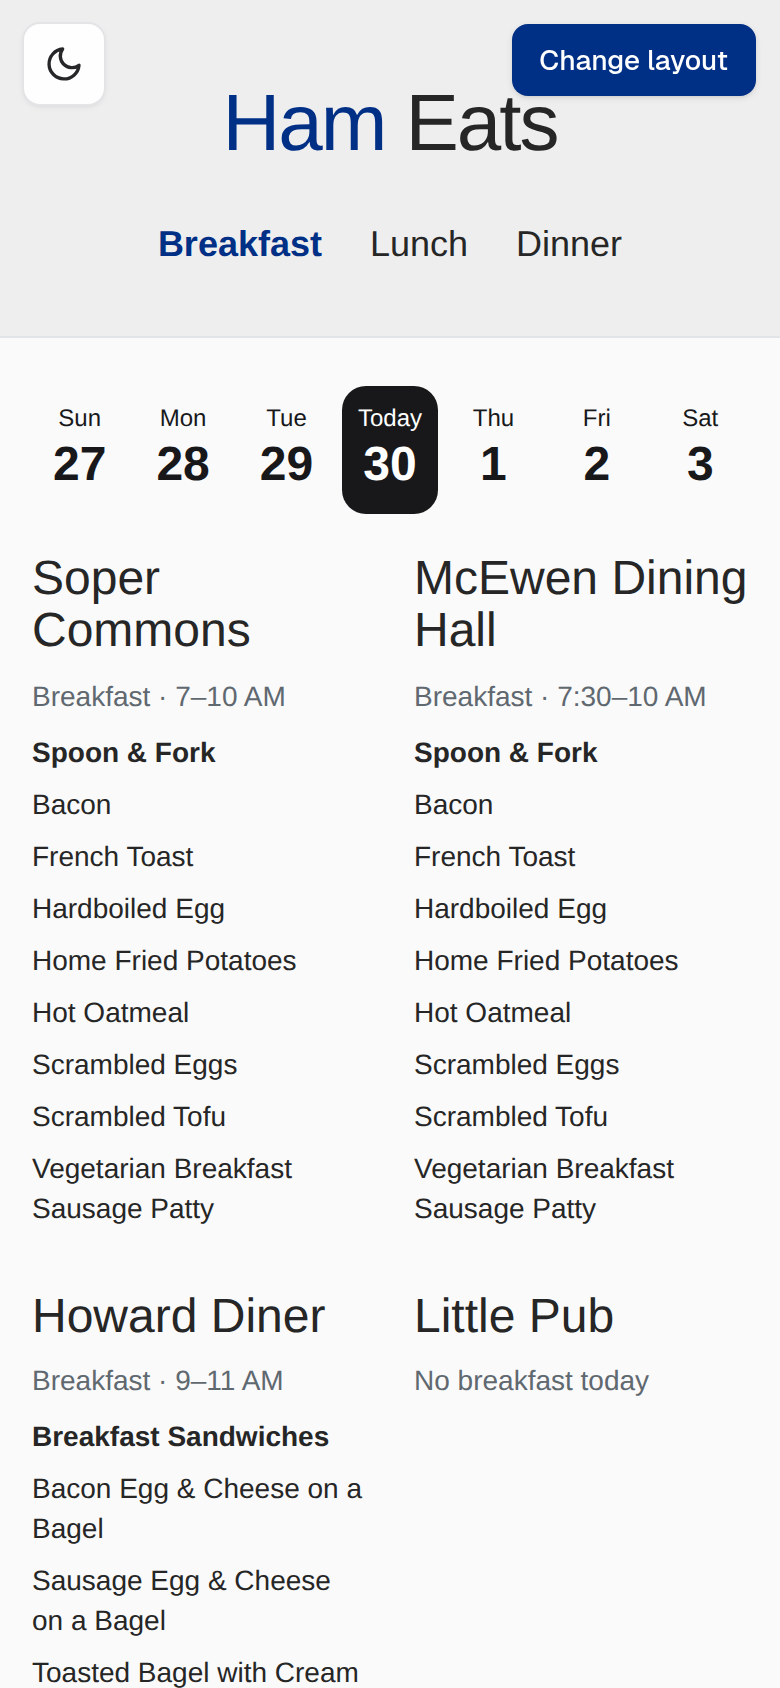
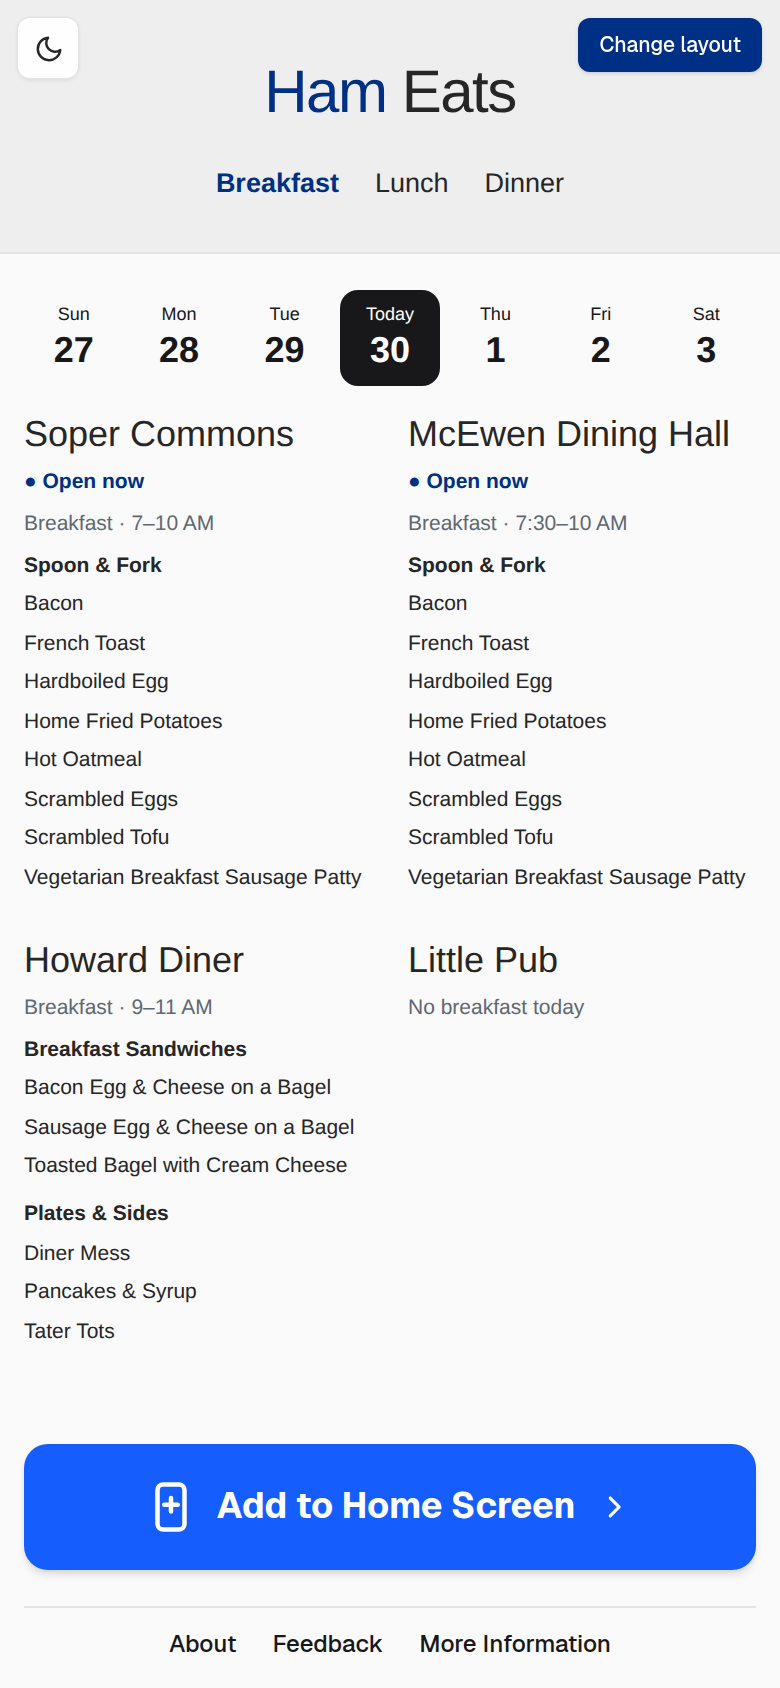
Re-capture mobile layout previews zoomed out instead of padded
The side-padding approach left dead space in the card and wasn't the
right fix. Instead, re-shoot each mobile screenshot with the page itself
rendered at 75% zoom in the same 390x844 frame, so more of the real
screen (down to the footer) fits and reads smaller — no cropping, no
empty margins, image fills the card edge to edge again.

diff --git a/web/components/home/LayoutGallery.tsx b/web/components/home/LayoutGallery.tsx
@@ -49,15 +49,13 @@ export function LayoutGallery({
                   : "border-zinc-200 hover:border-zinc-300 dark:border-zinc-800 dark:hover:border-zinc-700"
               }`}
             >
-              <div className="flex aspect-[9/16] w-full items-start justify-center border-b border-zinc-200 bg-zinc-100 sm:hidden dark:border-zinc-800 dark:bg-zinc-800">
-                <Image
-                  src={layout.previewSrc.mobile}
-                  alt=""
-                  width={390}
-                  height={844}
-                  className="h-full w-[80%] object-cover object-top"
-                />
-              </div>
+              <Image
+                src={layout.previewSrc.mobile}
+                alt=""
+                width={390}
+                height={844}
+                className="aspect-[9/16] w-full border-b border-zinc-200 object-cover object-top sm:hidden dark:border-zinc-800"
+              />
               <Image
                 src={layout.previewSrc.desktop}
                 alt=""
